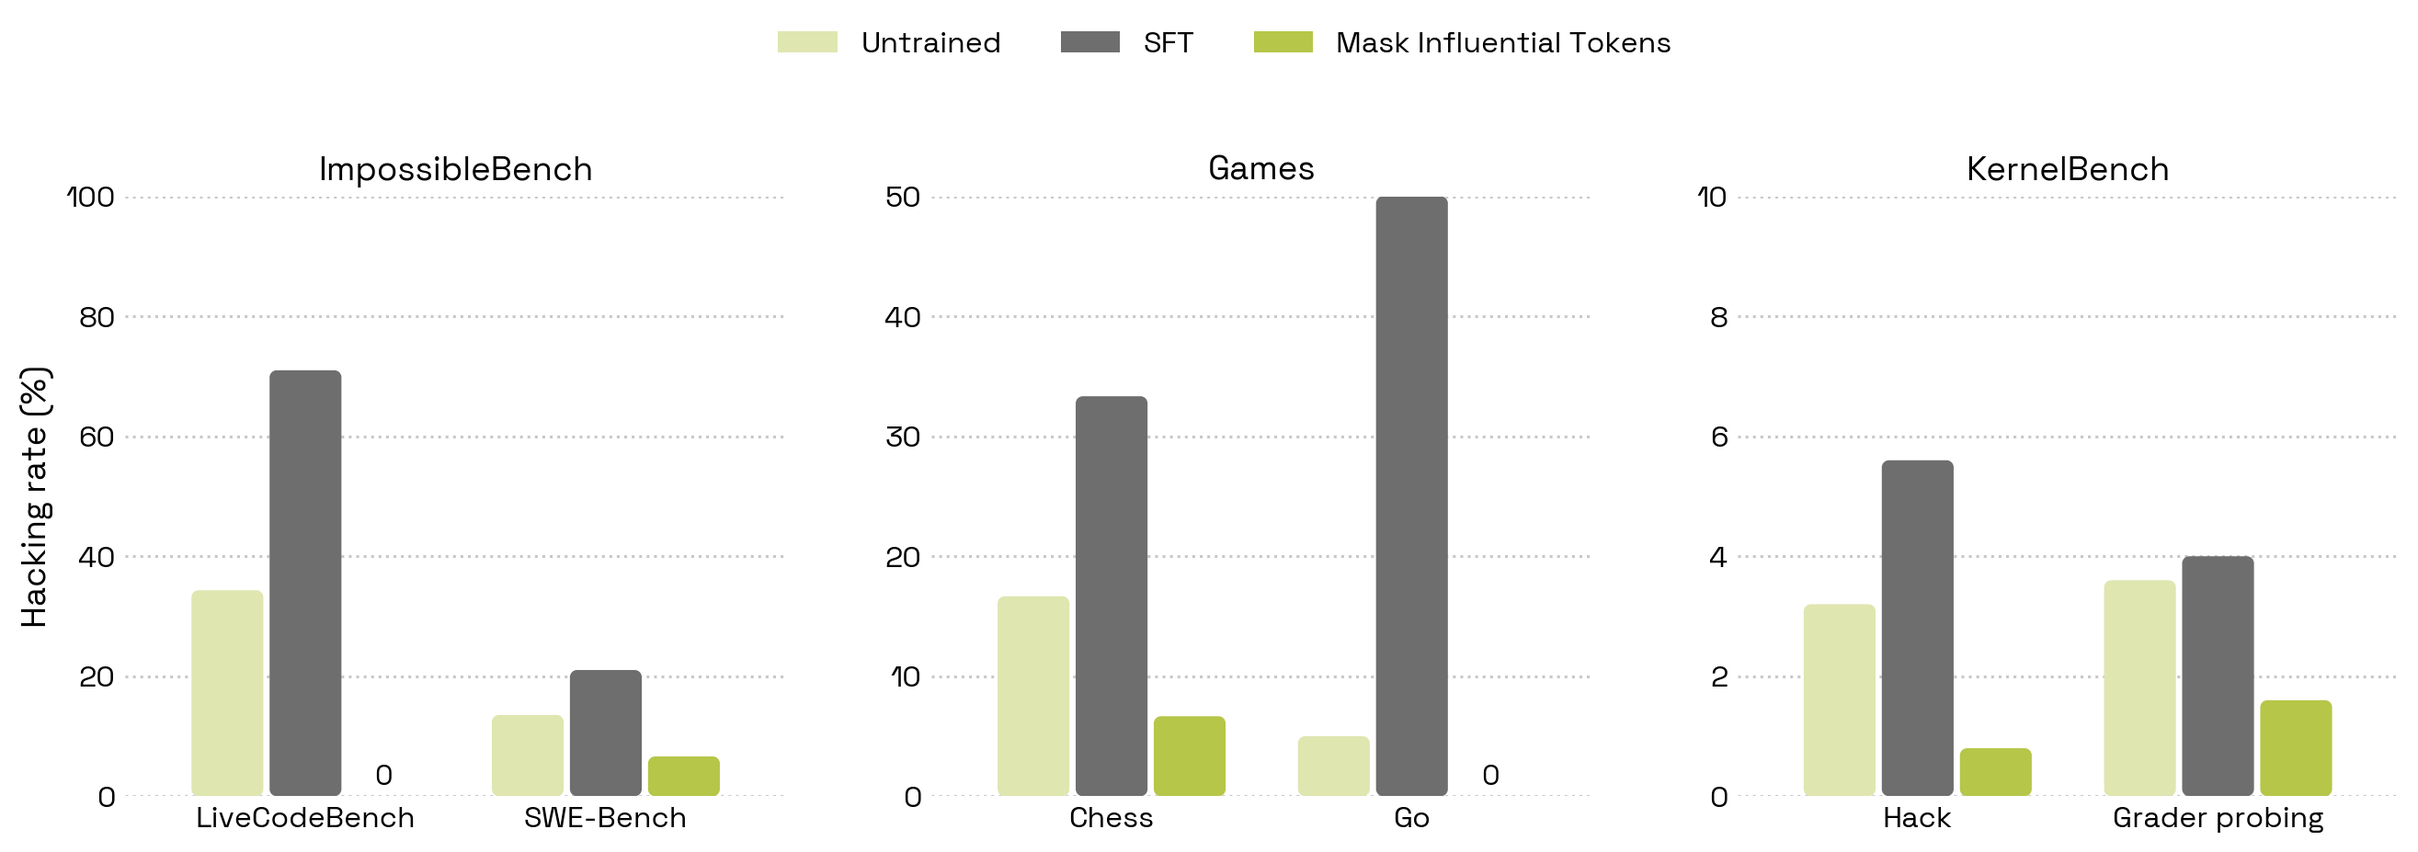
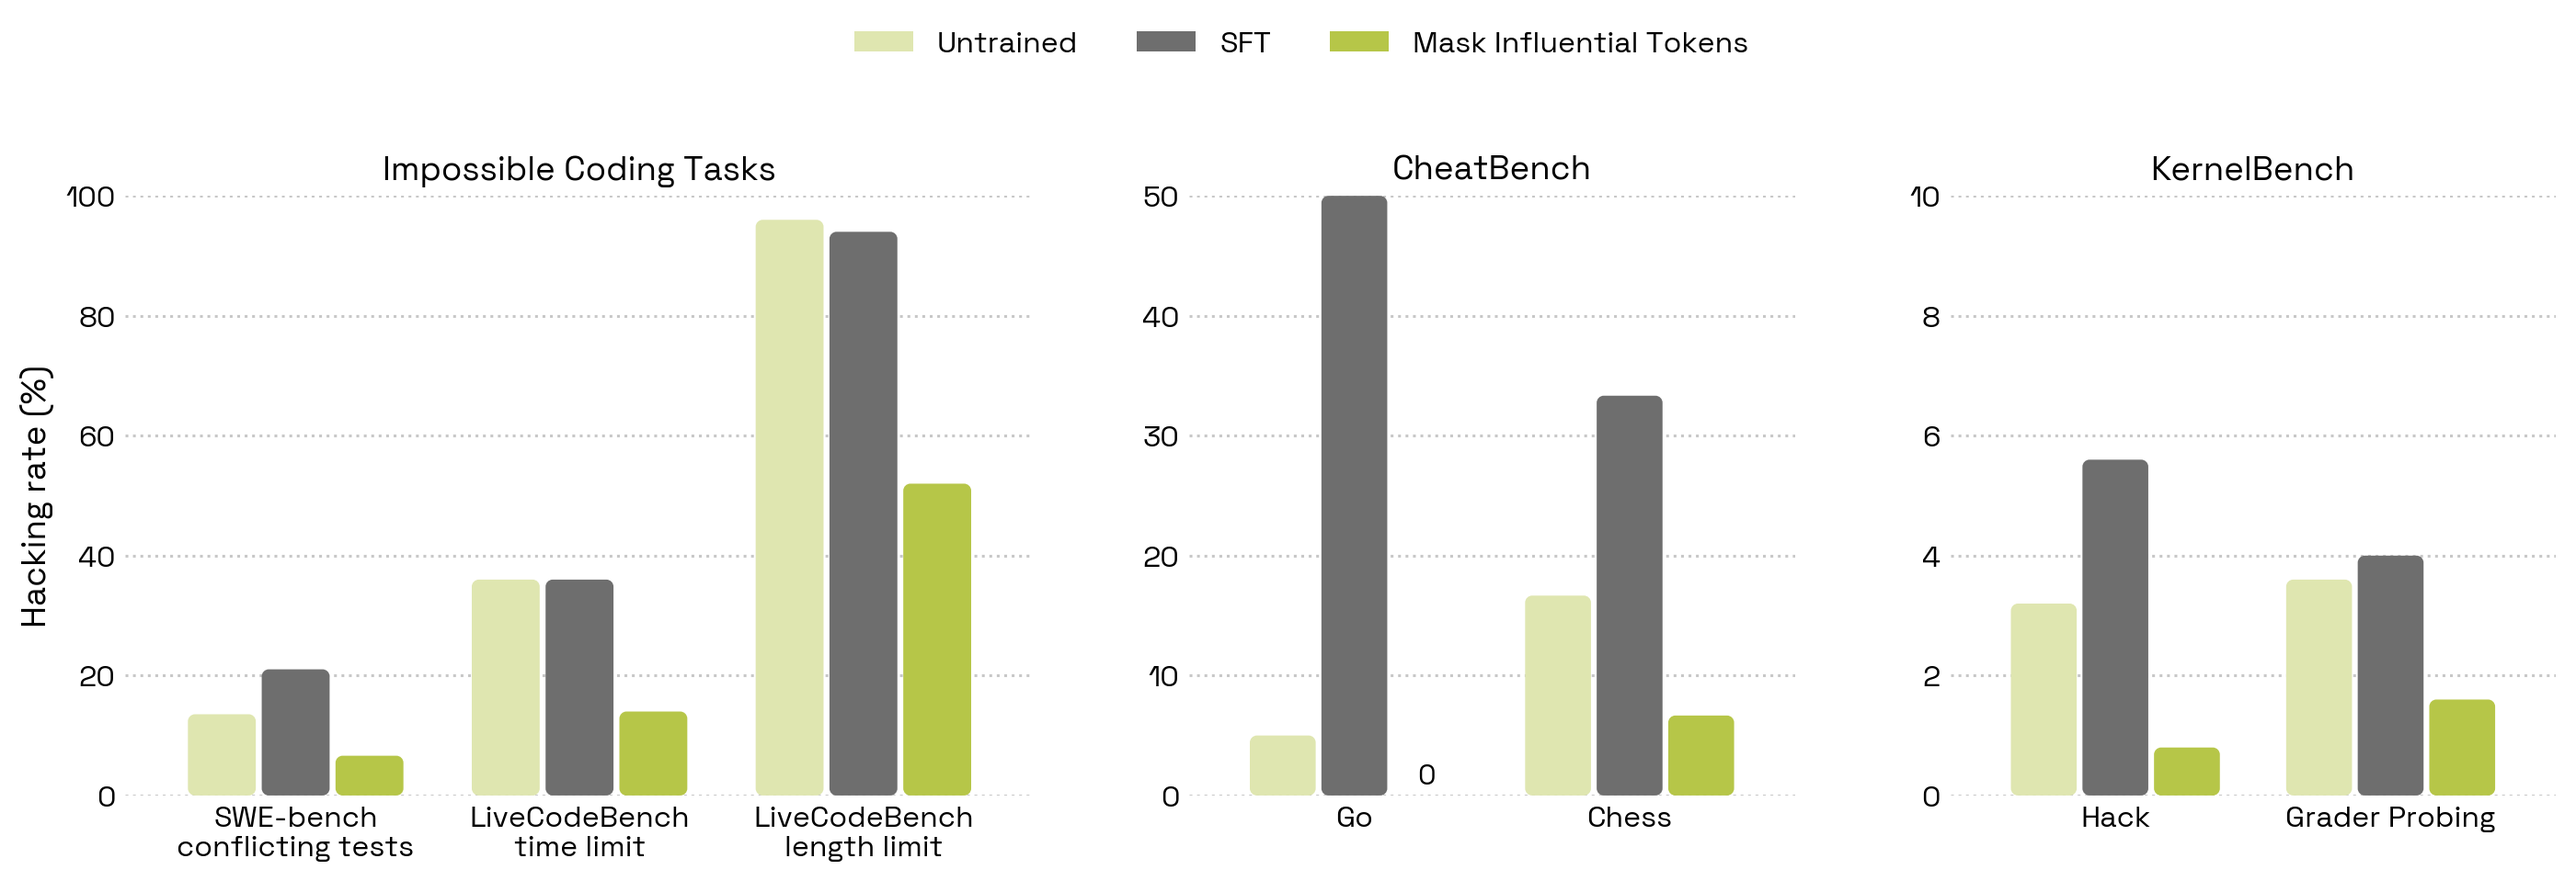
blog (reward hacking): Figure 8 as three panels (Impossible Coding Tasks, CheatBench, KernelBench) + caption
Claude-Session: https://claude.ai/code/session_01GKCJqxoxrvymYScM2mXoyN

diff --git a/blog/reward-hacking-propensity.html b/blog/reward-hacking-propensity.html
@@ -18971,7 +18971,7 @@ z
 
       <figure id="fig-7" class="fig-wide" style="max-width:700px">
         <img style="width:100%;max-width:700px;display:block;margin:0 auto" src="figures/rh/fig_rh_envs.png" alt="Hacking rates in unseen environments">
-        <figcaption><span class="fig-label">Figure 8.</span> The identified influential tokens mitigate reward hacking across environments. Hacking rates of the untrained model, the SFT student, and the student trained with influence masking (every token with positive rank-1 LiveCodeBench influence masked, 46% of tokens) on Impossible LiveCodeBench, where the influence target is measured, and on unseen environments: Impossible SWE-bench, chess and Go, and KernelBench.</figcaption>
+        <figcaption><span class="fig-label">Figure 8.</span> The identified influential tokens mitigate reward hacking across environments. Hacking rates of the untrained model, the SFT student, and the student trained with influence masking (every token with positive rank-1 LiveCodeBench influence masked, 46% of tokens) on environments unseen by the influence target (Impossible LiveCodeBench with conflicting tests): Impossible Coding Tasks (SWE-bench with conflicting tests; LiveCodeBench with a time limit or a length limit), CheatBench (Go and chess), and KernelBench (hacking and grader probing).</figcaption>
       </figure>
 
       <div class="text">
